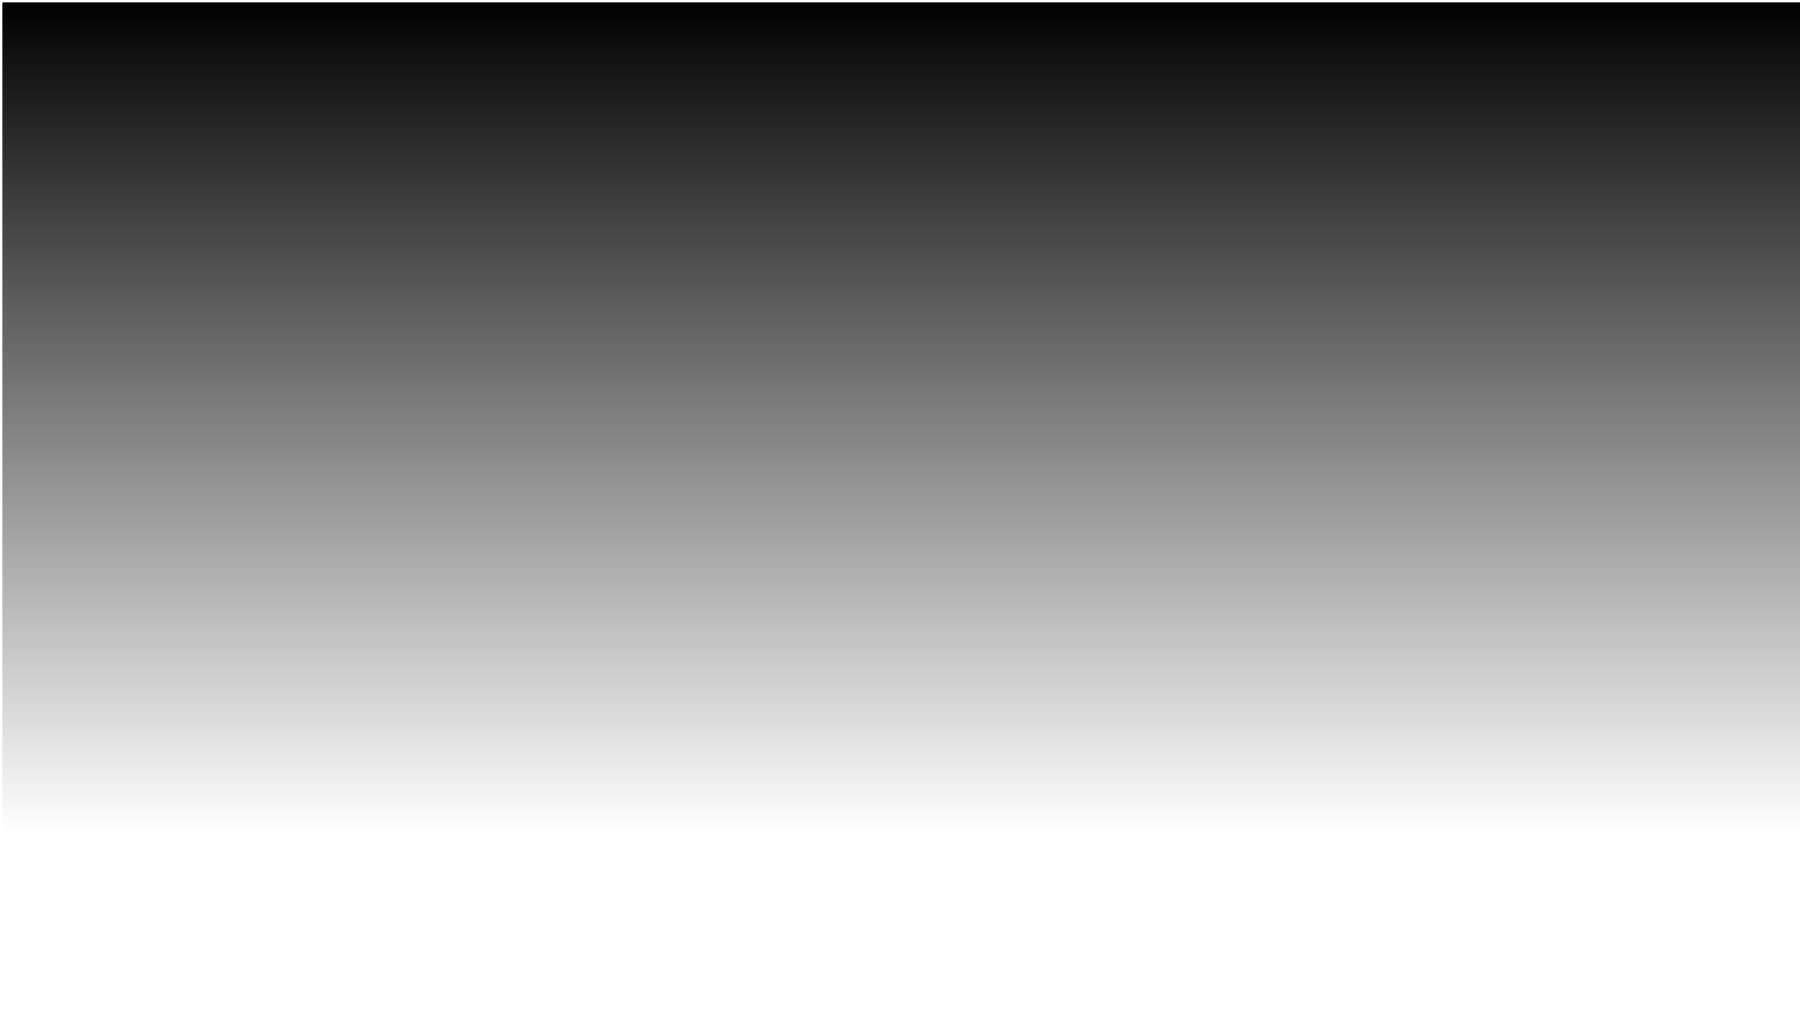
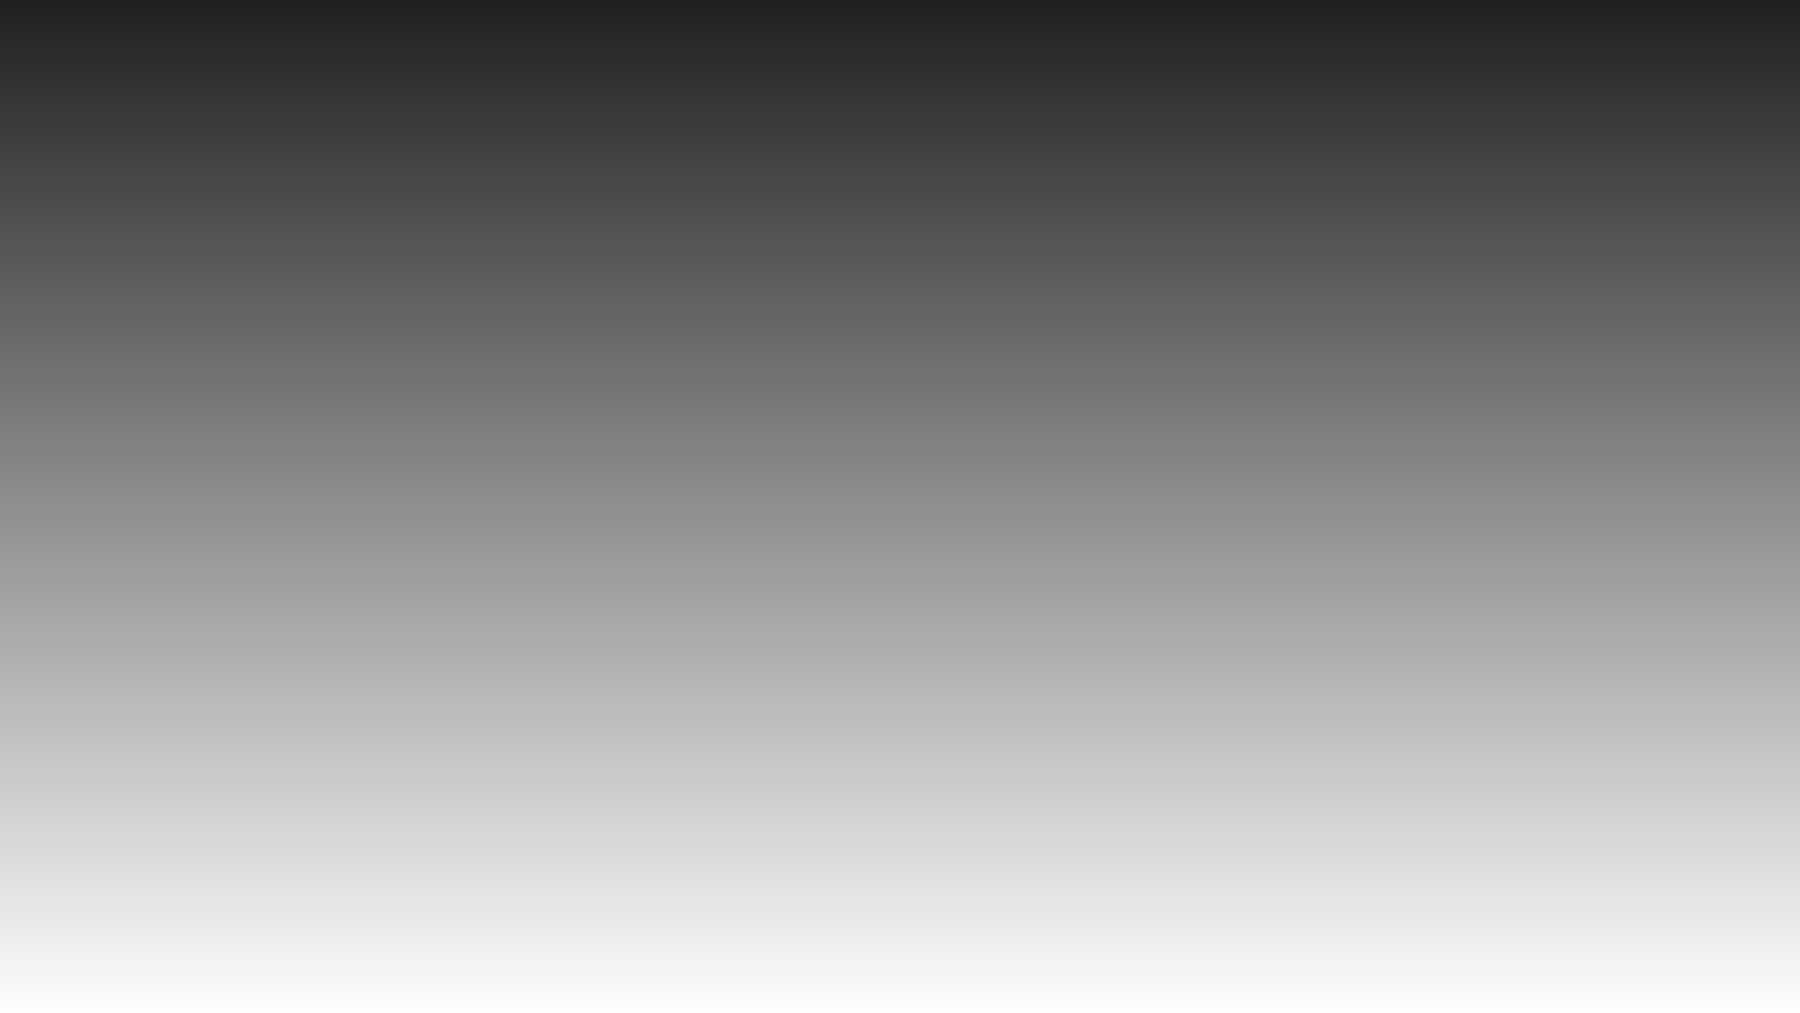
Add files via upload

diff --git a/port de folio/html/index.html b/port de folio/html/index.html
@@ -10,16 +10,31 @@
 	</head>
 
 	<body class="dharu">
-		<img class="grad" src="../assets/images/gradient.png" alt="alternatetext">
-		<img class="stars" src="../assets/images/stars.png" alt="alternatetext">
-		<h1 class="heading">Dhairya Chaudhary</h1>
-		<div class="subheading">Dreamer - Thinker - Believer</div>
+		<header class="site-header">
+			<img src="../assets/images/star1.png" alt="alternatetext" width="25%">
+			<h1 class="heading">Dhairya Chaudhary</h1>
+			<img src="../assets/images/star1.png" alt="alternatetext" class="flip" width="25%">
+		</header>
 		<img class="myimage" src="../assets/images/del.png" alt="alternatetext">
 
-		<a href="#" class="fa fa-facebook"></a>
-		<a href="#" class="fa fa-twitter"></a>
+		<div class=" container grid-container">
+			<a href="https://www.w3schools.com">
+				<img class="logo" src="../assets/images/1.png" alt="alternatetext">
+			</a>
+			<a href="https://www.w3schools.com">
+				<img class="logo" src="../assets/images/2.png" alt="alternatetext">
+			</a>
+			<a href="https://www.w3schools.com">
+				<img class="logo" src="../assets/images/3.png" alt="alternatetext">
+			</a>
+			<a href="https://www.w3schools.com">
+				<img class="logo" src="../assets/images/4.png" alt="alternatetext">
+			</a>
+			<a href="https://www.w3schools.com">
+				<img class="logo" src="../assets/images/5.png" alt="alternatetext">
+			</a>
+		</div>
 
-		<i class="fa fa-twitter"></i>
 
 		<div class="heading2">Hey there!</div>
 		<br>
@@ -28,11 +43,11 @@
 		<p class="intro">Growing up surrounded by books instead of people, I developed a fantastic imagination (take me to a bookstore and you’ll get whiplash trying to keep up as I point all over the place at all the titles I’ve read). As a result, I’m an inherently creative individual. It’s no surprise that I showed a natural inclination towards design and writing. </p>
 		<br>
 		<p class="intro">I would love to connect with you, you can drop me a mail at dhairya19035@iiitd.ac.in or connect with me on any of the handles mentioned right below my picture.</p>
-		<img class="cloud1" src="../assets/images/clouds.png" alt="alternatetext">
-		<img class="cloud2" src="../assets/images/clouds.png" alt="alternatetext">
-		<img class="cloud3" src="../assets/images/clouds.png" alt="alternatetext">
-		<img class="cloud4" src="../assets/images/clouds.png" alt="alternatetext">
-		<img class="cloud5" src="../assets/images/clouds.png" alt="alternatetext">
+		<img class="cloud1 floating" src="../assets/images/clouds.png" alt="alternatetext">
+		<img class="cloud2 floating2" src="../assets/images/clouds.png" alt="alternatetext">
+		<img class="cloud3 floating" src="../assets/images/clouds.png" alt="alternatetext">
+		<img class="cloud4 floating2" src="../assets/images/clouds.png" alt="alternatetext">
+		<img class="cloud5 floating3" src="../assets/images/clouds.png" alt="alternatetext">
 		<img class="book" src="../assets/images/book.png" alt="alternatetext">
 		<img class="flower" src="../assets/images/flower.png" alt="alternatetext">
 		<img class="cat" src="../assets/images/cat.png" alt="alternatetext">

diff --git a/port de folio/assets/css/style.css b/port de folio/assets/css/style.css
@@ -4,31 +4,30 @@
     box-sizing: border-box;
 }
 
+.site-header {
+	display: flex;
+	justify-content: space-between;
+	align-items: top;
+	z-index: -10;
+}
+
+.flip {
+	-webkit-transform: scaleX(-1);
+	transform: scaleX(-1);
+}
+
 
 .dharu{
+	background-image: url(../images/gradient.png);
+	background-image: url(../images/gradient.png);
+	z-index:-6;
 	background-repeat: no-repeat;
 	background-color: #372271;
-}
-
-.grad{
-	position: absolute;
-	left: -5px;
-	top: 0px;
-	z-index:-5;
-}
-
-.stars{
-	max-width: 1280px;
-	opacity: 0.6;
-	position: absolute;
-	left: 0px;
-	top: 0px;
 
 }
 
 .myimage{
-	padding-top: 20px;
-	padding-right: 20px;
+	padding-right: 15px;
 	display: block;
 	margin-left: auto;
 	margin-right: auto;
@@ -37,7 +36,7 @@
 
 .heading{
 	font-family: 'Mountains of Christmas';
-	font-size: 70px;
+	font-size: 80px;
 	font-weight: bold;
 	line-height: 111px;
 	color: #FFFFFF;
@@ -52,6 +51,7 @@
 	line-height: 55px;
 	color: #FFFFFF;
 	text-align: center;
+	padding-top: 30px;
 }
 
 .subheading{
@@ -78,7 +78,7 @@
 	position: absolute;
 	width: 270px;
 	left: 1047px;
-	top: 610px;
+	top: 640px;
 	transform: rotate(-12.5deg);
 }
 
@@ -254,14 +254,84 @@
 	top: 465px;
 }
 
-@fa-twitter: #ffffff;
-
-.fa {
-  padding: 20px;
-  font-size: 30px;
-  width: 30px;
-  text-align: center;
-  text-decoration: none;
-  border-radius: 50%;
+.floating {  
+    animation-name: floating;
+    animation-duration: 4s;
+    animation-iteration-count: infinite;
+    animation-timing-function: ease-in-out;
+    margin-left: 30px;
+    margin-top: 5px;
+}
+  
+@keyframes floating {
+    0% { transform: translate(0,  0px); }
+    50%  { transform: translate(0, 15px); }
+    100%   { transform: translate(0, -0px); }    
 }
 
+.floating2 {  
+    animation-name: floating;
+    animation-duration: 3s;
+    animation-iteration-count: infinite;
+    animation-timing-function: ease-in-out;
+    margin-left: 30px;
+    margin-top: 5px;
+}
+  
+@keyframes floating2 {
+    0% { transform: translate(0,  0px); }
+    50%  { transform: translate(0, 20px); }
+    100%   { transform: translate(0, -0px); }    
+}
+
+.floating3 {  
+    animation-name: floating;
+    animation-duration: 2s;
+    animation-iteration-count: infinite;
+    animation-timing-function: ease-in-out;
+    margin-left: 30px;
+    margin-top: 5px;
+}
+  
+@keyframes floating3 {
+    0% { transform: translate(0,  0px); }
+    50%  { transform: translate(0, 10px); }
+    100%   { transform: translate(0, -0px); }    
+}
+
+.grid-container{
+	display: flex;
+	justify-content: center;
+	margin-top: -75px;
+}
+
+.logo{
+	width: 48px;
+	padding-left: 5px;
+	padding-right: 5px;
+}
+
+/*.logo:hover{
+	box-shadow: 0 0 15px #d35400;
+	text-shadow: 0 0 15px #d35400;
+}*/
+
+
+.twinkle {  
+    animation-name: twinkle;
+    animation-duration: 4s;
+    animation-iteration-count: infinite;
+    animation-timing-function: ease-in-out;
+}
+  
+@keyframes twinkle {
+    0% { 
+    	opacity: 0.1; 
+    }
+    50%  { 
+    	opacity: 0.5; 
+    }
+    100%   { 
+    	opacity: 0.1; 
+    }    
+}
